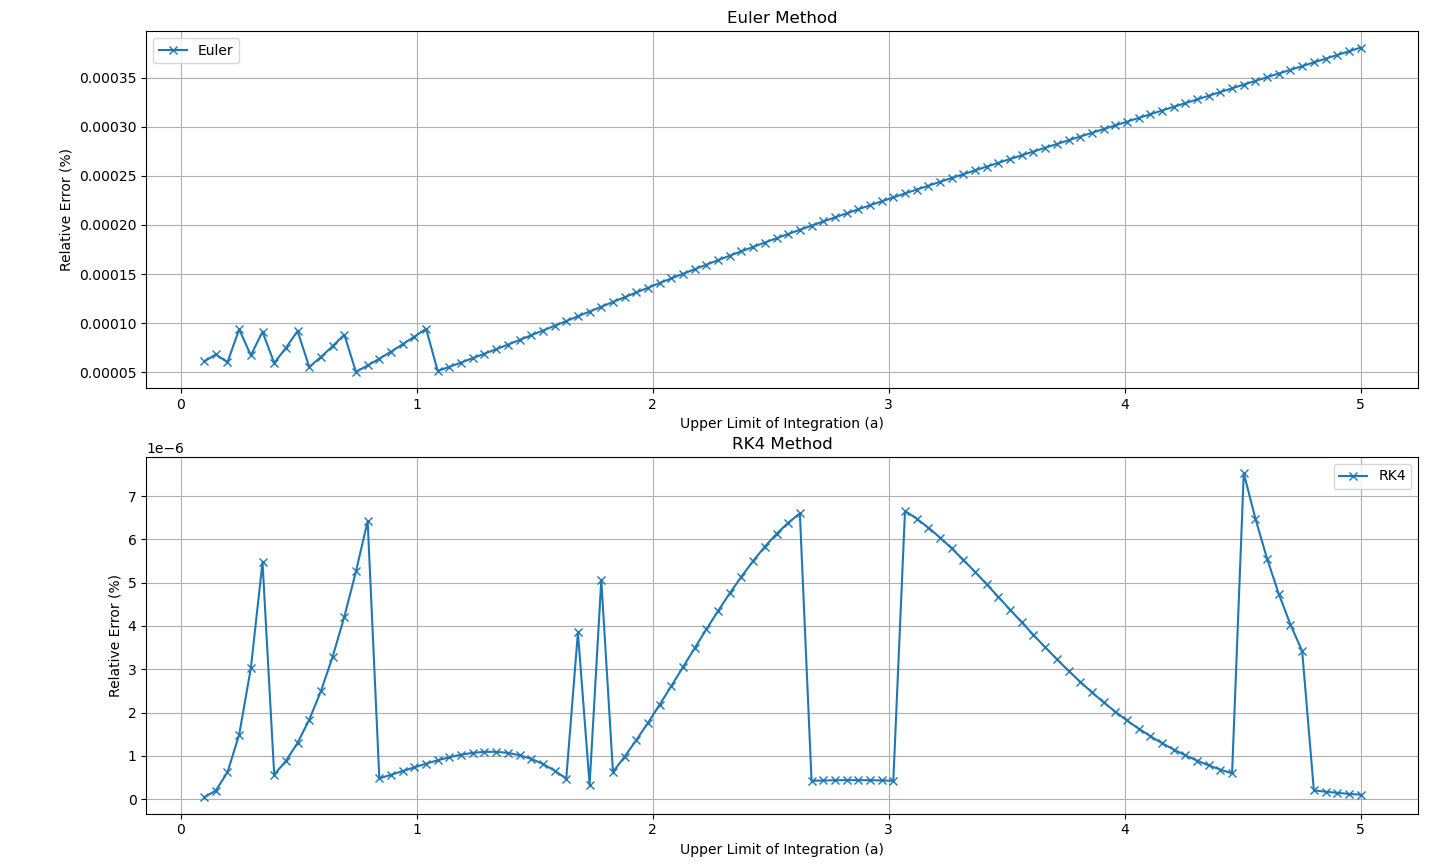
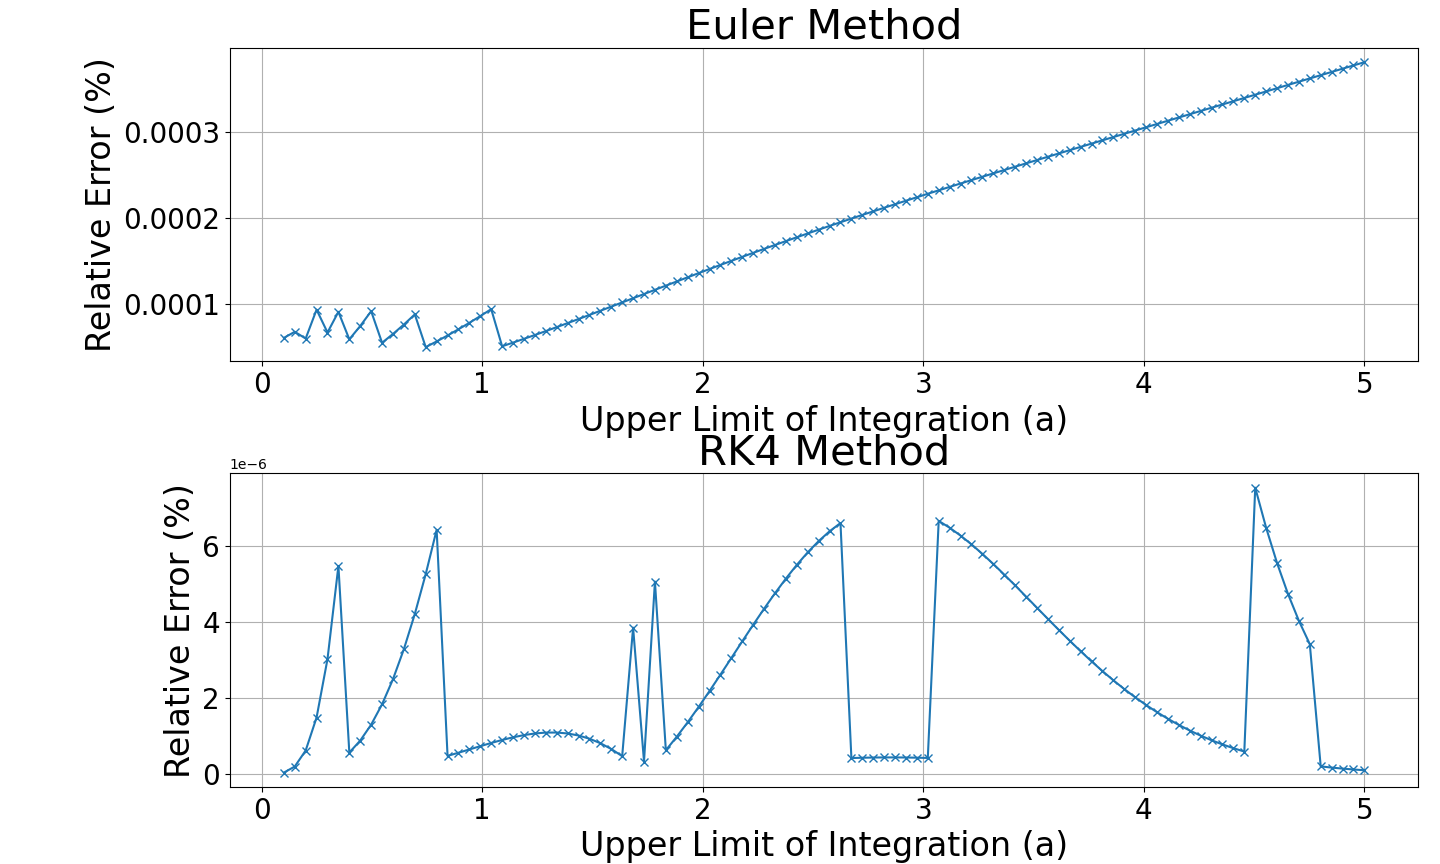
all figures saved and made the code 'easier' to use

diff --git a/Integration.py b/Integration.py
@@ -226,20 +226,44 @@ if __name__ == "__main__":
         print(f"Improper result: {improper_result}")
  
     ## Comparisson of number steps to iterate, tiem taken ##
-    if True:
+    a, b = 0.1, 5
+   
+    def linear(x):
+        return x
         
-        def linear(x):
-            return x
-        
-        def logarithmic(x):
-            return (x * np.log(x))
+    def logarithmic(x):
+        return (x * np.log(x))
 
-        a, b = 0, 5
-
-        exact_int = ErrorFunctionTest()
+    exact_int = ErrorFunctionTest()
         
-        exact_result = exact_int.integrate(a, b)
-        function = exact_int.gaussian
+    exact_result = exact_int.integrate(a, b)
+    
+    
+    
+    functions = {
+        "Gaussian": {
+            "function": exact_int.gaussian,
+            "exact_integral": exact_int.integrate  
+        },
+        "Linear": {
+            "function": linear,
+            "exact_integral": lambda a, b: (b**2 / 2) - (a**2 / 2)
+        },
+        "Logarithmic": {
+            "function": logarithmic,
+            "exact_integral": lambda a, b: ((b**2 / 2) * np.log(b) - (b**2 / 4)) - ((a**2 / 2) * np.log(a) - (a**2 / 4))
+        }
+    }
+
+    for func_name, func_data in functions.items():
+        function = func_data["function"]
+        exact_integral = func_data["exact_integral"]
+        
+
+
+
+
+        #function = exact_int.gaussian
         #function = linear
         #function = logarithmic
 
@@ -257,7 +281,7 @@ if __name__ == "__main__":
         rk4_errors = []
         improper_errors = []
 
-        b_values = np.linspace(0.1, 5, 100)
+        b_values = np.linspace(0.2, 5, 10)
 
 
         # Trapezium
@@ -341,21 +365,24 @@ if __name__ == "__main__":
         print(f"Midpoint: Final Result = {result:.10f}, Error = {improper_error:.10f}%, Steps = {steps}, Time Taken = {time_taken:.6f}s")
 
     ## Plot how the error changes with different upper limit ##
+    title_fontsize = 30
+    label_fontsize = 24
+    tick_fontsize = 20
 
     fig, axs = plt.subplots(2, 1, figsize=(10, 10))
 
     axs[0].plot(b_values, simpsons_errors, label="Simpson's", marker='x')
-    axs[0].set_title("Simpson's Method")
-    axs[0].set_xlabel("Upper Limit of Integration (a)")
-    axs[0].set_ylabel("Relative Error (%)")
-    axs[0].legend()
+    axs[0].set_title("Simpson's Method", fontsize=title_fontsize)
+    axs[0].set_xlabel("Upper Limit of Integration (a)", fontsize=label_fontsize)
+    axs[0].set_ylabel("Relative Error (%)", fontsize=label_fontsize)
+    axs[0].tick_params(axis='both', which='major', labelsize=tick_fontsize)
     axs[0].grid()
 
     axs[1].plot(b_values, trapezium_errors, label="Trapezium", marker='x')
-    axs[1].set_title("Trapezium Method")
-    axs[1].set_xlabel("Upper Limit of Integration (a)")
-    axs[1].set_ylabel("Relative Error (%)")
-    axs[1].legend()
+    axs[1].set_title("Trapezium Method", fontsize=title_fontsize)
+    axs[1].set_xlabel("Upper Limit of Integration (a)", fontsize=label_fontsize)
+    axs[1].set_ylabel("Relative Error (%)", fontsize=label_fontsize)
+    axs[1].tick_params(axis='both', which='major', labelsize=tick_fontsize)
     axs[1].grid()
 
     plt.tight_layout()
@@ -364,17 +391,17 @@ if __name__ == "__main__":
     fig, axs = plt.subplots(2, 1, figsize=(10, 10))
 
     axs[0].plot(b_values, monte_carlo_errors, label="Monte Carlo", marker='s')
-    axs[0].set_title("Monte Carlo Method")
-    axs[0].set_xlabel("Upper Limit of Integration (a)")
-    axs[0].set_ylabel("Relative Error (%)")
-    axs[0].legend()
+    axs[0].set_title("Monte Carlo Method", fontsize=title_fontsize)
+    axs[0].set_xlabel("Upper Limit of Integration (a)", fontsize=label_fontsize)
+    axs[0].set_ylabel("Relative Error (%)", fontsize=label_fontsize)
+    axs[0].tick_params(axis='both', which='major', labelsize=tick_fontsize)
     axs[0].grid()
 
     axs[1].plot(b_values, improper_errors, label="Composite", marker='x')
-    axs[1].set_title("Composite Method")
-    axs[1].set_xlabel("Upper Limit of Integration (a)")
-    axs[1].set_ylabel("Relative Error (%)")
-    axs[1].legend()
+    axs[1].set_title("Composite Method", fontsize=title_fontsize)
+    axs[1].set_xlabel("Upper Limit of Integration (a)", fontsize=label_fontsize)
+    axs[1].set_ylabel("Relative Error (%)", fontsize=label_fontsize)
+    axs[1].tick_params(axis='both', which='major', labelsize=tick_fontsize)
     axs[1].grid()
 
     plt.tight_layout()
@@ -383,17 +410,17 @@ if __name__ == "__main__":
     fig, axs = plt.subplots(2, 1, figsize=(10, 10))
 
     axs[0].plot(b_values, euler_errors, label="Euler", marker='x')
-    axs[0].set_title("Euler Method")
-    axs[0].set_xlabel("Upper Limit of Integration (a)")
-    axs[0].set_ylabel("Relative Error (%)")
-    axs[0].legend()
+    axs[0].set_title("Euler Method", fontsize=title_fontsize)
+    axs[0].set_xlabel("Upper Limit of Integration (a)", fontsize=label_fontsize)
+    axs[0].set_ylabel("Relative Error (%)", fontsize=label_fontsize)
+    axs[0].tick_params(axis='both', which='major', labelsize=tick_fontsize)
     axs[0].grid()
 
     axs[1].plot(b_values, rk4_errors, label="RK4", marker='x')
-    axs[1].set_title("RK4 Method")
-    axs[1].set_xlabel("Upper Limit of Integration (a)")
-    axs[1].set_ylabel("Relative Error (%)")
-    axs[1].legend()
+    axs[1].set_title("RK4 Method", fontsize=title_fontsize)
+    axs[1].set_xlabel("Upper Limit of Integration (a)", fontsize=label_fontsize)
+    axs[1].set_ylabel("Relative Error (%)", fontsize=label_fontsize)
+    axs[1].tick_params(axis='both', which='major', labelsize=tick_fontsize)
     axs[1].grid()
 
     plt.tight_layout()

diff --git a/Analysis.py b/Analysis.py
@@ -53,8 +53,8 @@ if __name__ == "__main__":
 
     significance_analysis = SignificanceAnalysis(background, experimental, trapezium)
 
-    m_l_values = np.linspace(120, 124, 30)
-    m_u_values = np.linspace(126, 130, 30)
+    m_l_values = np.linspace(120, 124, 100)
+    m_u_values = np.linspace(126, 130, 100)
 
     sig_matrix = np.zeros((len(m_l_values), len(m_u_values)))
 
@@ -90,42 +90,44 @@ if __name__ == "__main__":
 
     ## Calculate the maximum significance given by grid seach for differnt grid spacings ##
 
-    grid_spacings = np.linspace(5, 100, 100)
-    sig_matrix
-    max_significances = []
-    grid_search_time = []
+    if True:
+        grid_spacings = np.linspace(5, 100, 100)
+        sig_matrix
+        max_sig = []
+        time_passed = []
 
-    for spacing in grid_spacings:
-        m_l_values = np.linspace(120, 124, int(spacing))
-        m_u_values = np.linspace(126, 130, int(spacing))
+        for spacing in grid_spacings:
+            m_l_values = np.linspace(120, 124, int(spacing))
+            m_u_values = np.linspace(126, 130, int(spacing))
 
-        def significance_function(m_l, m_u):
-            return significance_analysis.calculate_significance(m_l, m_u)
+            def significance_function(m_l, m_u):
+                return significance_analysis.calculate_significance(m_l, m_u)
 
-        maximisation = Maximisation(func=significance_function, m_l_values=m_l_values, m_u_values=m_u_values)
-        start_time = time.time()
-        _, max_s = maximisation.grid_search()
-        time_taken = time.time() - start_time
-        grid_search_time.append(time_taken)
-        max_significances.append(max_s)
+            maximisation = Maximisation(func=significance_function, m_l_values=m_l_values, m_u_values=m_u_values)
+            start_time = time.time()
+            _, max_s = maximisation.grid_search()
+            time_taken = time.time() - start_time
+            time_passed.append(time_taken)
+            max_sig.append(max_s)
 
-    fig, ax1 = plt.subplots()
+        
+        fig, ax1 = plt.subplots()
 
-    color = 'tab:red'
-    ax1.set_xlabel('Grid Spacing')
-    ax1.set_ylabel('Maximum Significance', color=color)
-    ax1.scatter(grid_spacings, max_significances, marker='x', color=color)
-    ax1.tick_params(axis='y', labelcolor=color)
+        color = 'tab:red'
+        ax1.set_xlabel('Grid Spacing')
+        ax1.set_ylabel('Maximum Significance', color=color)
+        ax1.scatter(grid_spacings, max_sig, marker='x', color=color)
+        ax1.tick_params(axis='y', labelcolor=color)
 
-    ax2 = ax1.twinx()
-    color = 'tab:blue'
-    ax2.set_ylabel('Grid Search Time (s)', color=color)
-    ax2.plot(grid_spacings, grid_search_time, color=color)
-    ax2.tick_params(axis='y', labelcolor=color)
+        ax2 = ax1.twinx()
+        color = 'tab:blue'
+        ax2.set_ylabel('Grid Search Time (s)', color=color)
+        ax2.plot(grid_spacings, time_passed, color=color)
+        ax2.tick_params(axis='y', labelcolor=color)
 
-    fig.tight_layout()
-    plt.title("Maximum Significance and Grid Search Time vs Grid Spacing")
-    plt.show()
+        fig.tight_layout()
+        plt.title("Maximum Significance and Grid Search Time vs Grid Spacing")
+        plt.show()
 
     ## Find probability fo significance 
 
@@ -146,6 +148,7 @@ if __name__ == "__main__":
     plt.plot(shifts_MH, NH_m_H, marker='x')
     plt.xlabel("m_H shift")
     plt.ylabel("Value of NH")
+    plt.title("Value of NH for different shifts in m_H")
     plt.show()
 
     # Shifting photons
@@ -157,6 +160,7 @@ if __name__ == "__main__":
     plt.plot(shifts_photons, NH_photons, marker='x')
     plt.xlabel("photon shift")
     plt.ylabel("Value of NH")
+    plt.title("Value of NH for different shifts in photon pairs")
     plt.show()
 
     # Shifting theory
@@ -168,6 +172,7 @@ if __name__ == "__main__":
     plt.plot(shifts_theory, NH_theory, marker='x')
     plt.xlabel("theory shift")
     plt.ylabel("Value of NH")
+    plt.title("Value of NH for different shifts in theory uncertainty")
     plt.show()
 
     ## Compare with the background statistical uncertainty ##

diff --git a/Maximisation.py b/Maximisation.py
@@ -31,7 +31,7 @@ class Maximisation:
         
         return guess, best_func_value
 
-    def gradient_method(self, guess, alpha = 0.01, max_iterations = 10000, tolerance = 1e-8):
+    def gradient_method(self, guess, alpha = 0.01, max_iterations = 10000, tolerance = 1e-9):
         guess = np.array(guess, dtype=float)
 
         for iteration in range(max_iterations):

diff --git a/Differentiation.py b/Differentiation.py
@@ -3,7 +3,7 @@ import time
 
 class FiniteDifference:
     
-    def __init__(self, func, point, step_size = 1e-5):
+    def __init__(self, func, point, step_size = 1e-9):
         self.func = func
         self.point = np.array(point , dtype = float)
         self.step_size = step_size
